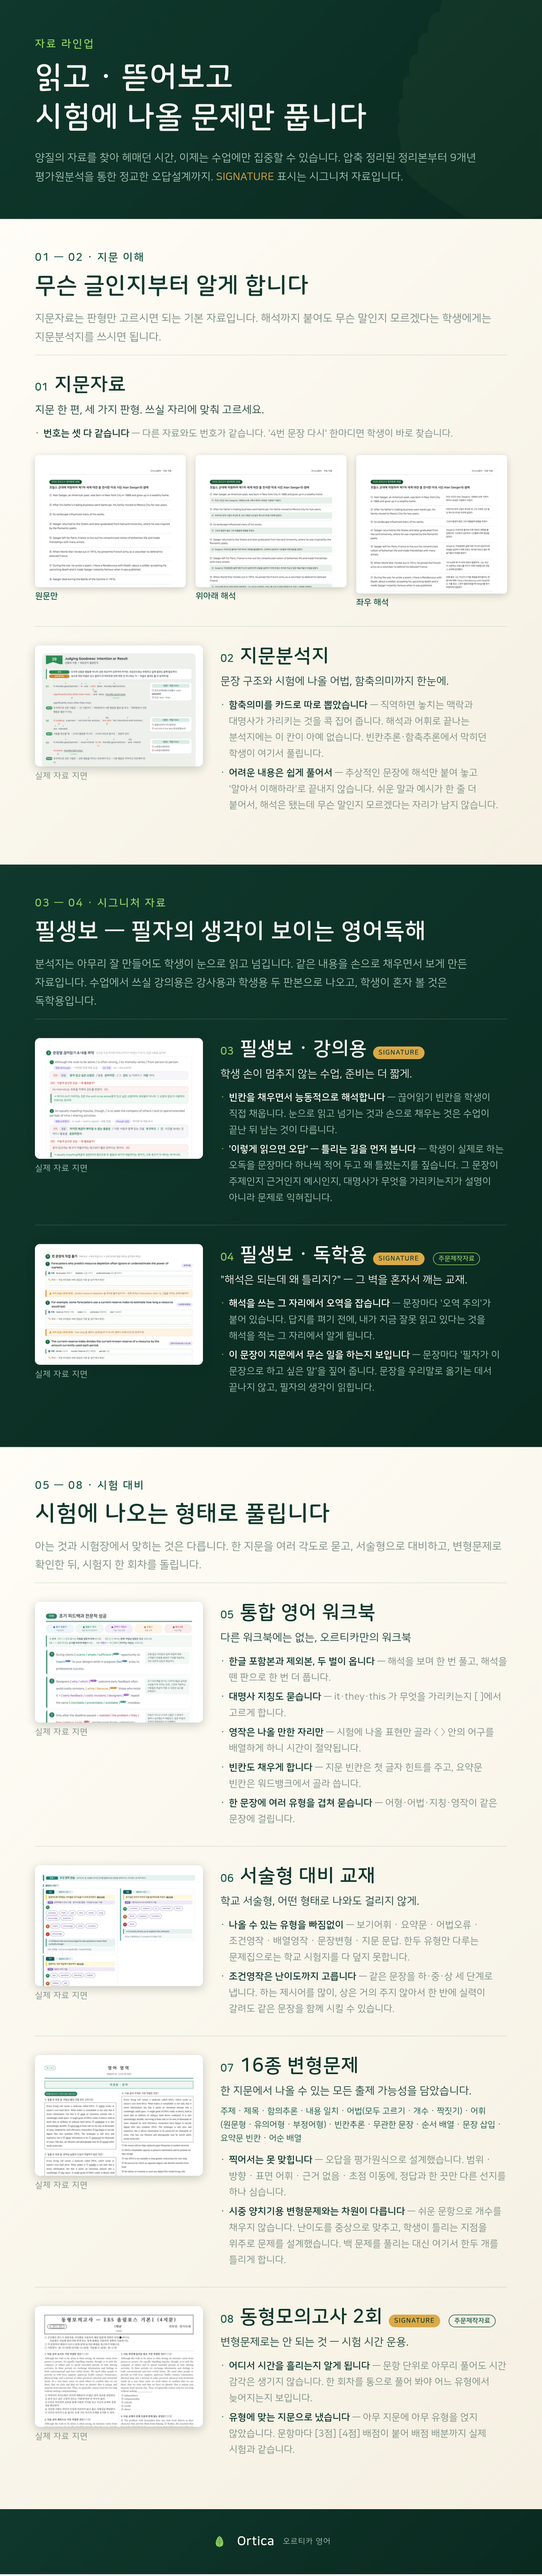
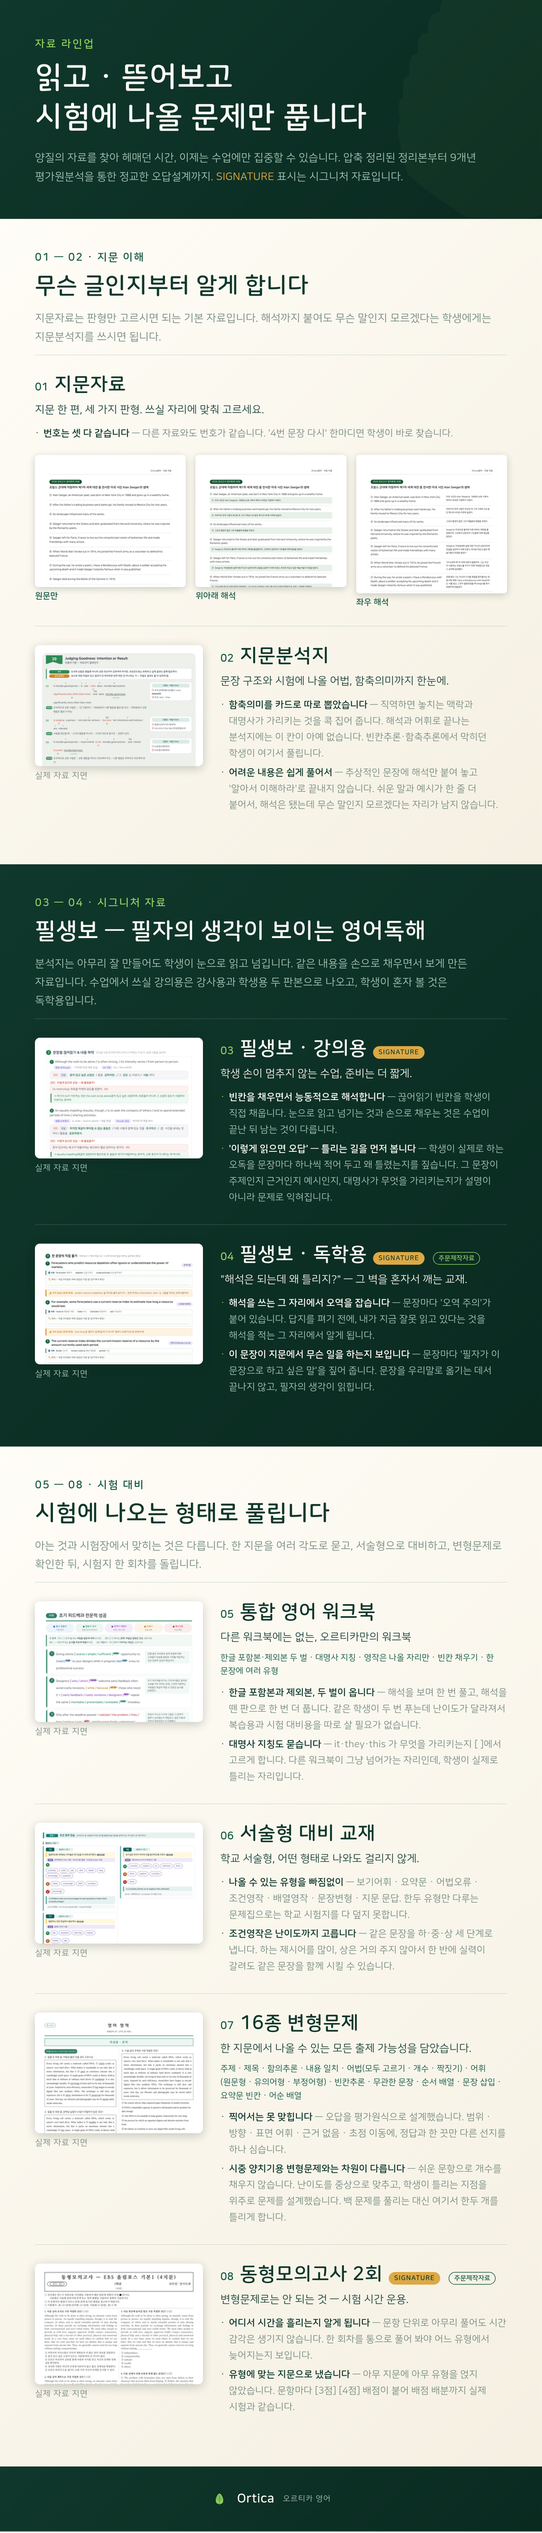
05 워크북 라인업 줄을 다른 자료와 같은 모양으로

Changed region(s): [[0.0, 0.0, 1.0, 0.9653], [0.0622, 0.7162, 0.3733, 0.9653], [0.5911, 0.1557, 0.6222, 0.1868]]

diff --git a/brand/catalog.py b/brand/catalog.py
@@ -278,7 +278,10 @@ MATERIALS: list[Item] = [
         key="workbook-integrated",
         points_title="다른 워크북과 무엇이 다른가 — 다섯 가지",
         max_points=5,
-        lineup_points=5,
+        # 목록에서는 다섯을 한 줄로 훑고, 그중 둘만 풀어 쓴다. 다섯 줄을 세우면
+        # 이 자료만 목록에서 다른 모양으로 튄다.
+        lineup_note=("한글 포함본·제외본 두 벌 · 대명사 지칭 · 영작은 나올 자리만 · "
+                     "빈칸 채우기 · 한 문장에 여러 유형"),
         no="05",
         name="통합 영어 워크북",
         en="Integrated Workbook",
